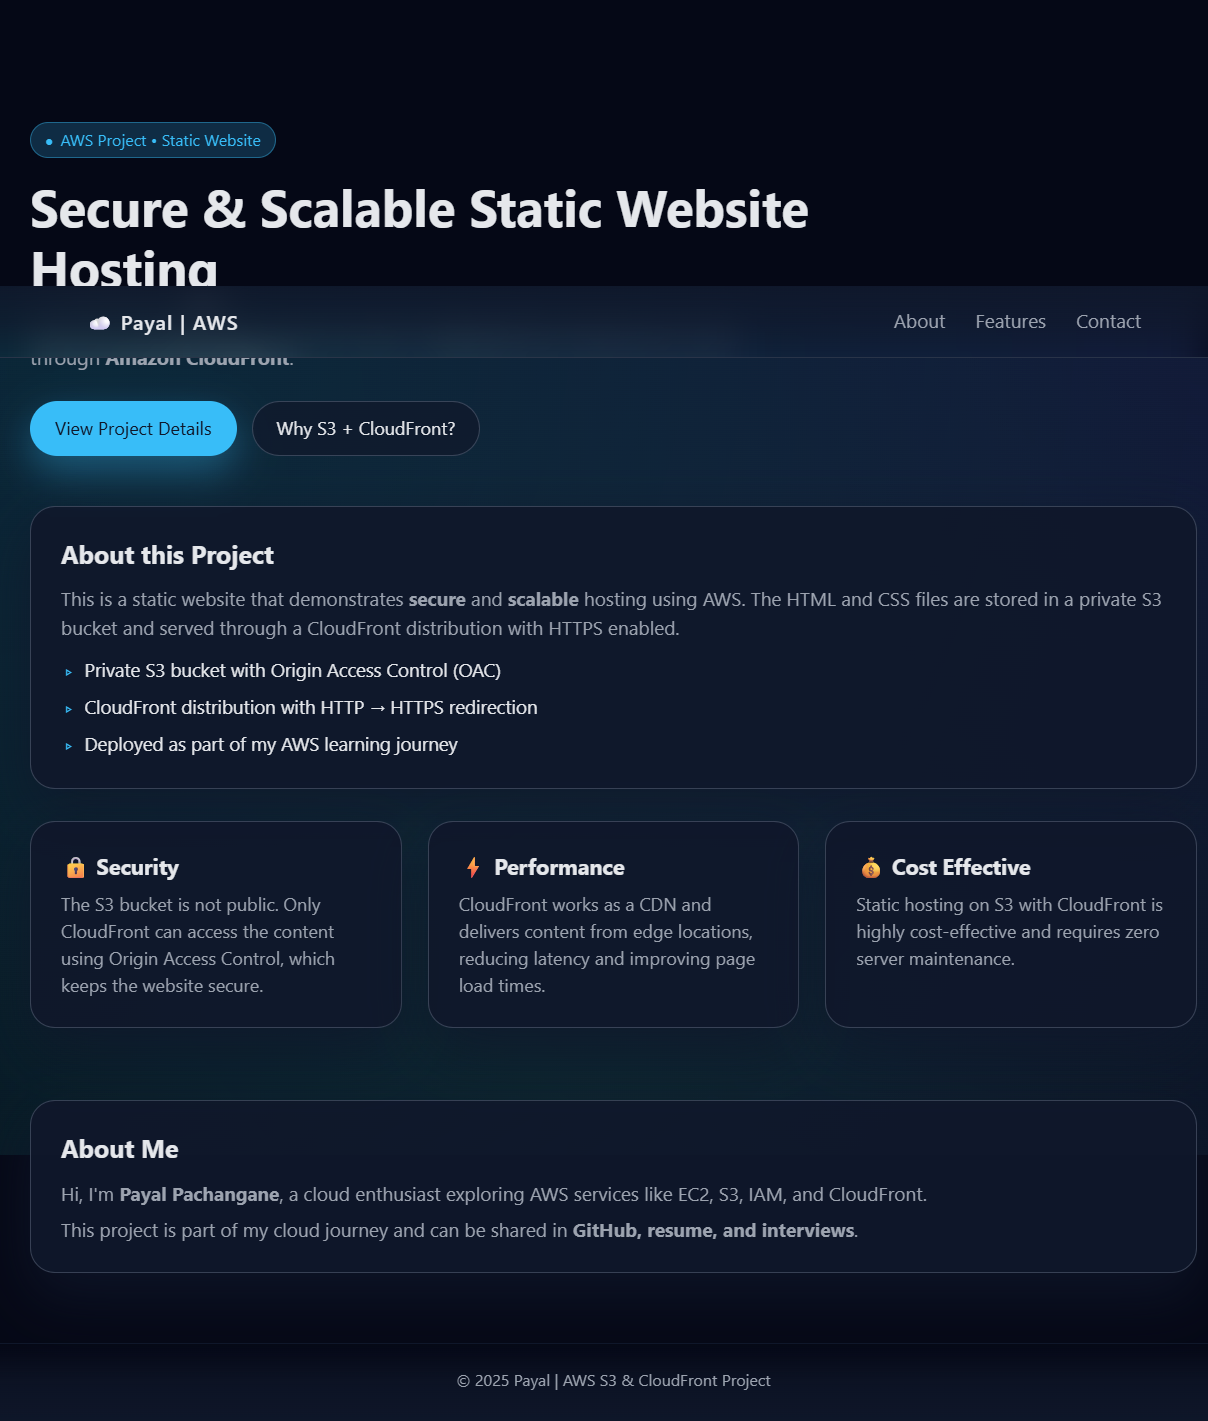
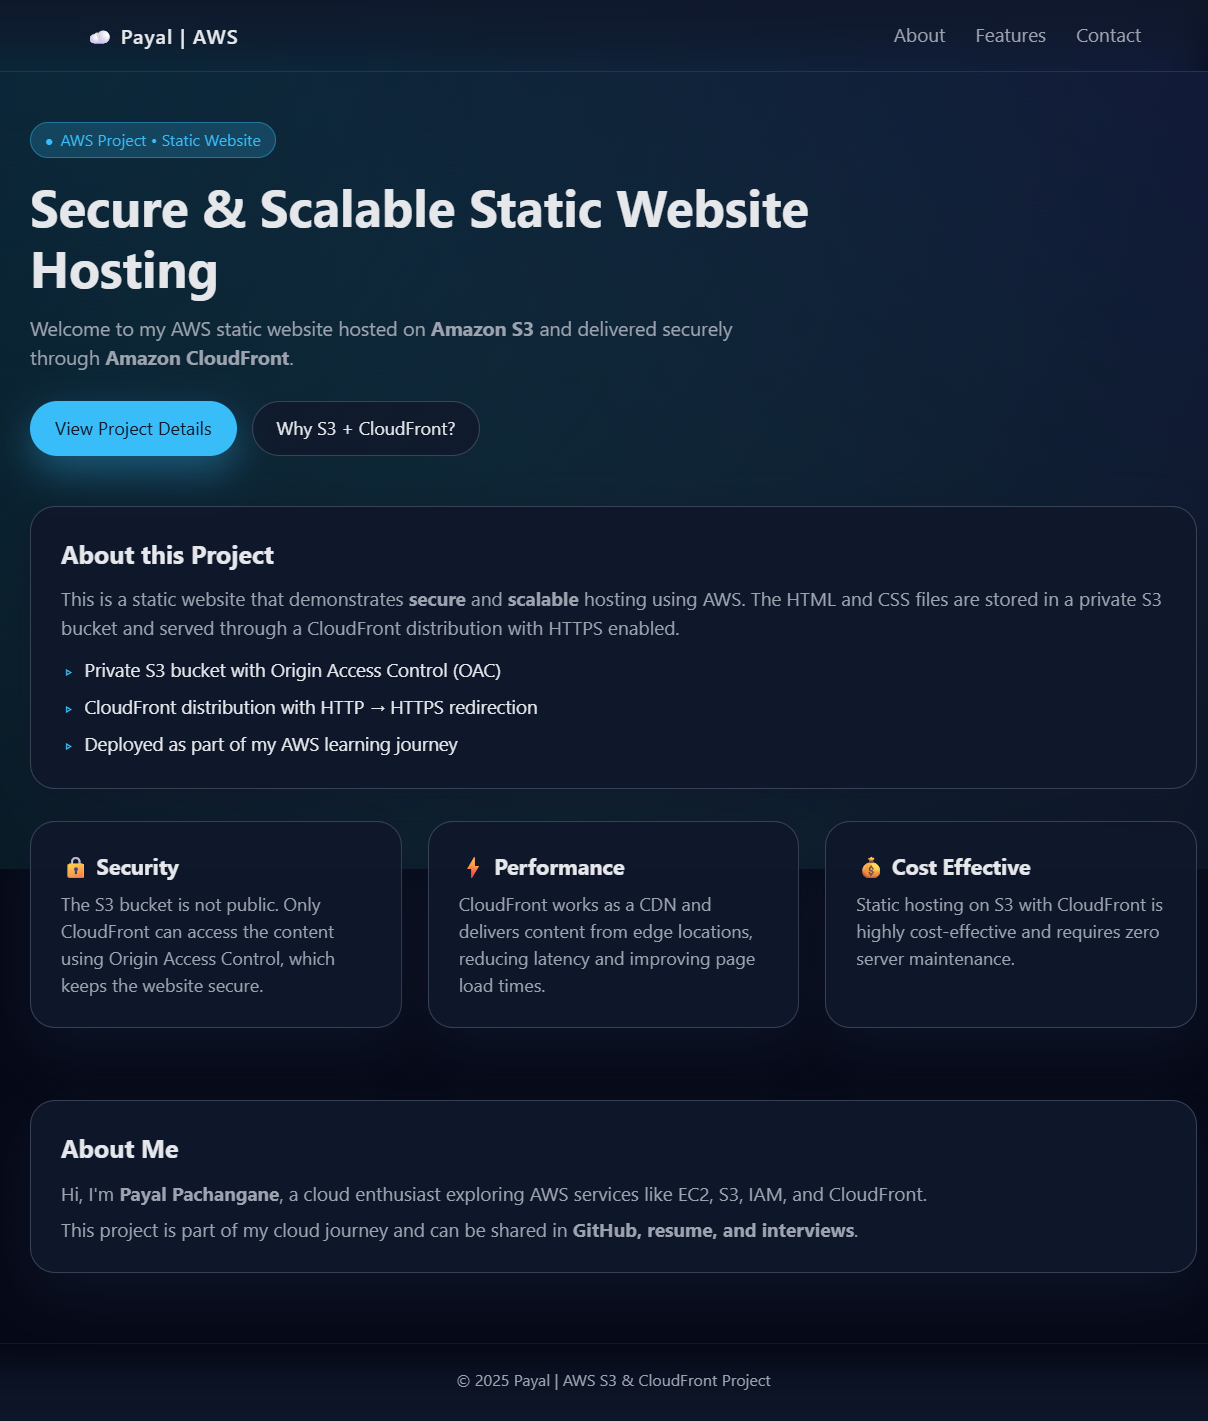
added

Changed region(s): [[0.0, 0.0, 1.0, 0.2477], [0.3369, 0.7431, 0.3675, 0.7741]]

diff --git a/index.html b/index.html
@@ -1,3 +1,4 @@
+<!-- index.html -->
 <!DOCTYPE html>
 <html lang="en">
 <head>
@@ -6,63 +7,69 @@
   <meta name="viewport" content="width=device-width, initial-scale=1.0" />
   <link rel="stylesheet" href="style.css" />
 </head>
-<body>
-  <div class="bg-gradient"></div>
-
-  <header class="top-bar">
-    <div class="logo">☁ Payal | AWS</div>
-    <nav class="nav-links">
+<body class="page-gradient">
+  <header class="top-nav">
+    <div class="logo">● Payal | AWS</div>
+    <nav>
       <a href="#about">About</a>
       <a href="#features">Features</a>
       <a href="#contact">Contact</a>
     </nav>
   </header>
 
-  <main class="container">
-    <section class="hero">
-      <p class="tag">AWS Project • Static Website</p>
-      <h1>Secure & Scalable Static Website Hosting</h1>
-      <p class="subtitle">
-        Welcome to my AWS static website hosted on <strong>Amazon S3</strong> and
-        delivered securely through <strong>Amazon CloudFront</strong>.
-      </p>
-      <div class="hero-buttons">
-        <a href="#about" class="btn primary">View Project Details</a>
-        <a href="#features" class="btn ghost">Why S3 + CloudFront?</a>
-      </div>
-    </section>
+  <main class="hero">
+    <div class="breadcrumb">AWS Project • Static Website</div>
 
-    <section id="about" class="card">
+    <h1>Secure &amp; Scalable Static Website Hosting</h1>
+
+    <p class="subtitle">
+      Welcome to my AWS static website hosted on <strong>Amazon S3</strong> and
+      delivered securely through <strong>Amazon CloudFront</strong>.
+    </p>
+
+    <div class="hero-buttons">
+      <!-- इथे फक्त link बदललाय -->
+      <a class="btn btn-primary" href="project.html">
+        View Project Details
+      </a>
+      <a class="btn btn-outline" href="why-s3-cloudfront.html">
+        Why S3 + CloudFront?
+      </a>
+    </div>
+
+    <section class="card main-card" id="about">
       <h2>About this Project</h2>
       <p>
         This is a static website that demonstrates <strong>secure</strong> and
-        <strong>scalable</strong> hosting using AWS.
-        The HTML and CSS files are stored in a private S3 bucket and served
-        through a CloudFront distribution with HTTPS enabled.
+        <strong>scalable</strong> hosting using AWS. The HTML and CSS files are
+        stored in a private S3 bucket and served through a CloudFront distribution
+        with HTTPS enabled.
       </p>
-      <ul class="bullet-list">
+      <ul>
         <li>Private S3 bucket with Origin Access Control (OAC)</li>
         <li>CloudFront distribution with HTTP → HTTPS redirection</li>
         <li>Deployed as part of my AWS learning journey</li>
       </ul>
     </section>
 
-    <section id="features" class="grid">
-      <article class="card feature">
+    <section class="cards-row" id="features">
+      <article class="card">
         <h3>🔒 Security</h3>
         <p>
           The S3 bucket is not public. Only CloudFront can access the content
           using Origin Access Control, which keeps the website secure.
         </p>
       </article>
-      <article class="card feature">
+
+      <article class="card">
         <h3>⚡ Performance</h3>
         <p>
           CloudFront works as a CDN and delivers content from edge locations,
           reducing latency and improving page load times.
         </p>
       </article>
-      <article class="card feature">
+
+      <article class="card">
         <h3>💰 Cost Effective</h3>
         <p>
           Static hosting on S3 with CloudFront is highly cost-effective and
@@ -71,21 +78,18 @@
       </article>
     </section>
 
-    <section id="contact" class="card contact">
+    <section class="card about-me" id="contact">
       <h2>About Me</h2>
       <p>
         Hi, I'm <strong>Payal Pachangane</strong>, a cloud enthusiast exploring
-        AWS services like EC2, S3, IAM, and CloudFront.
-      </p>
-      <p>
-        This project is part of my cloud journey and can be shared in
-        <strong>GitHub, resume, and interviews</strong>.
+        AWS services like EC2, S3, IAM, and CloudFront. This project is part of my
+        cloud journey and can be shared in <strong>GitHub, resume, and interviews</strong>.
       </p>
     </section>
   </main>
 
   <footer class="footer">
-    © 2025 Payal | AWS S3 & CloudFront Project
+    © 2025 Payal | AWS S3 &amp; CloudFront Project
   </footer>
 </body>
 </html>

diff --git a/project.html b/project.html
@@ -1,0 +1,88 @@
+<!-- project.html -->
+<!DOCTYPE html>
+<html lang="en">
+<head>
+  <meta charset="UTF-8" />
+  <title>Project Details | AWS S3 & CloudFront</title>
+  <meta name="viewport" content="width=device-width, initial-scale=1.0" />
+  <link rel="stylesheet" href="style.css" />
+</head>
+<body class="page-gradient">
+  <header class="top-nav">
+    <div class="logo">● Payal | AWS</div>
+    <nav>
+      <a href="index.html">Home</a>
+      <a href="#architecture">Architecture</a>
+      <a href="#steps">Deployment Steps</a>
+    </nav>
+  </header>
+
+  <main class="content-page">
+    <div class="breadcrumb">
+      <a href="index.html">Home</a> › Project Details
+    </div>
+
+    <h1>Project Details – Secure Static Website on AWS</h1>
+    <p class="subtitle">
+      Detailed breakdown of how this static website is hosted securely using
+      Amazon S3 and Amazon CloudFront.
+    </p>
+
+    <section class="card" id="architecture">
+      <h2>Architecture Overview</h2>
+      <ul>
+        <li>Static HTML/CSS files hosted in a private S3 bucket</li>
+        <li>CloudFront distribution configured with the S3 static website endpoint as origin</li>
+        <li>Origin Access Control (OAC) used so only CloudFront can access S3</li>
+        <li>Bucket policy denies direct public access and allows only CloudFront</li>
+        <li>HTTPS enabled on CloudFront for secure content delivery</li>
+      </ul>
+    </section>
+
+    <section class="card" id="steps">
+      <h2>Deployment Steps</h2>
+      <ol>
+        <li>Create an S3 bucket and enable static website hosting.</li>
+        <li>Upload HTML, CSS and assets (images, icons, etc.).</li>
+        <li>Keep bucket <strong>private</strong> – block all public access.</li>
+        <li>Create a CloudFront distribution pointing to the S3 website endpoint.</li>
+        <li>Configure Origin Access Control (OAC) and attach to the origin.</li>
+        <li>Update S3 bucket policy to allow only the CloudFront OAC.</li>
+        <li>Enable HTTP → HTTPS redirection in CloudFront behaviors.</li>
+        <li>Test the website using the CloudFront domain URL.</li>
+      </ol>
+    </section>
+
+    <section class="card">
+      <h2>Security Highlights</h2>
+      <ul>
+        <li>No direct public access to the S3 bucket.</li>
+        <li>All requests go through CloudFront, which acts as a secure front layer.</li>
+        <li>HTTPS ensures data in transit is encrypted.</li>
+        <li>Bucket policy + OAC combination protects your content.</li>
+      </ul>
+    </section>
+
+    <section class="card">
+      <h2>Use Cases</h2>
+      <p>
+        This architecture is ideal for:
+      </p>
+      <ul>
+        <li>Portfolio websites</li>
+        <li>Static documentation sites</li>
+        <li>Landing pages for products</li>
+        <li>Any static front-end hosted without servers</li>
+      </ul>
+    </section>
+
+    <div class="back-link">
+      <a href="index.html" class="btn btn-outline">← Back to Main Page</a>
+    </div>
+  </main>
+
+  <footer class="footer">
+    © 2025 Payal | AWS S3 &amp; CloudFront Project
+  </footer>
+</body>
+</html>

diff --git a/why-s3-cloudfront.html b/why-s3-cloudfront.html
@@ -1,0 +1,88 @@
+<!-- why-s3-cloudfront.html -->
+<!DOCTYPE html>
+<html lang="en">
+<head>
+  <meta charset="UTF-8" />
+  <title>Why S3 + CloudFront | AWS Project</title>
+  <meta name="viewport" content="width=device-width, initial-scale=1.0" />
+  <link rel="stylesheet" href="style.css" />
+</head>
+<body class="page-gradient">
+  <header class="top-nav">
+    <div class="logo">● Payal | AWS</div>
+    <nav>
+      <a href="index.html">Home</a>
+      <a href="#benefits">Benefits</a>
+      <a href="#when-to-use">When to Use</a>
+    </nav>
+  </header>
+
+  <main class="content-page">
+    <div class="breadcrumb">
+      <a href="index.html">Home</a> › Why S3 + CloudFront?
+    </div>
+
+    <h1>Why Use Amazon S3 with CloudFront?</h1>
+    <p class="subtitle">
+      Understanding the reasons and advantages of combining Amazon S3 and
+      Amazon CloudFront for static website hosting.
+    </p>
+
+    <section class="card" id="benefits">
+      <h2>Key Benefits</h2>
+      <ul>
+        <li>
+          <strong>Scalability:</strong> S3 automatically scales to handle any
+          amount of static content, and CloudFront handles global traffic.
+        </li>
+        <li>
+          <strong>Low Latency:</strong> CloudFront caches content at edge
+          locations close to users, reducing load time.
+        </li>
+        <li>
+          <strong>Security:</strong> Private S3 bucket + OAC + HTTPS keep data
+          secure and protected from direct access.
+        </li>
+        <li>
+          <strong>Cost Effective:</strong> Pay only for what you use, no servers
+          to manage or maintain.
+        </li>
+        <li>
+          <strong>Reliability:</strong> Highly durable storage with 99.999999999%
+          durability for objects stored in S3.
+        </li>
+      </ul>
+    </section>
+
+    <section class="card" id="when-to-use">
+      <h2>When Should You Use S3 + CloudFront?</h2>
+      <p>
+        This combination is perfect when:
+      </p>
+      <ul>
+        <li>You have a static website (HTML, CSS, JS, images).</li>
+        <li>You want global users to access your site with low latency.</li>
+        <li>You need HTTPS and secure access without managing servers.</li>
+        <li>You want a simple, reliable, and low-cost architecture.</li>
+      </ul>
+    </section>
+
+    <section class="card">
+      <h2>How It Helps in Interviews</h2>
+      <ul>
+        <li>Shows understanding of core AWS services (S3, CloudFront, IAM, OAC).</li>
+        <li>Demonstrates ability to design secure, scalable architectures.</li>
+        <li>Easy to explain as a mini-project with clear architecture diagram.</li>
+      </ul>
+    </section>
+
+    <div class="back-link">
+      <a href="index.html" class="btn btn-outline">← Back to Main Page</a>
+    </div>
+  </main>
+
+  <footer class="footer">
+    © 2025 Payal | AWS S3 &amp; CloudFront Project
+  </footer>
+</body>
+</html>

diff --git a/README.md b/README.md
@@ -127,11 +127,11 @@ Invalidating `/*` ensures that the entire cache is refreshed, and users see the 
 
 ## 🌐 Live Website
 
-![Static Website via CloudFront](image/d1m6el92zo8940.cloudfront.net_.png)
-
 Access the website via CloudFront HTTPS URL:
 
 `https://d1m6el92zo8940.cloudfront.net`
+
+![Static Website via CloudFront](image/d1m6el92zo8940.cloudfront.net_.png)
 
 This demonstrates:
 - Website hosted on **Amazon S3**
